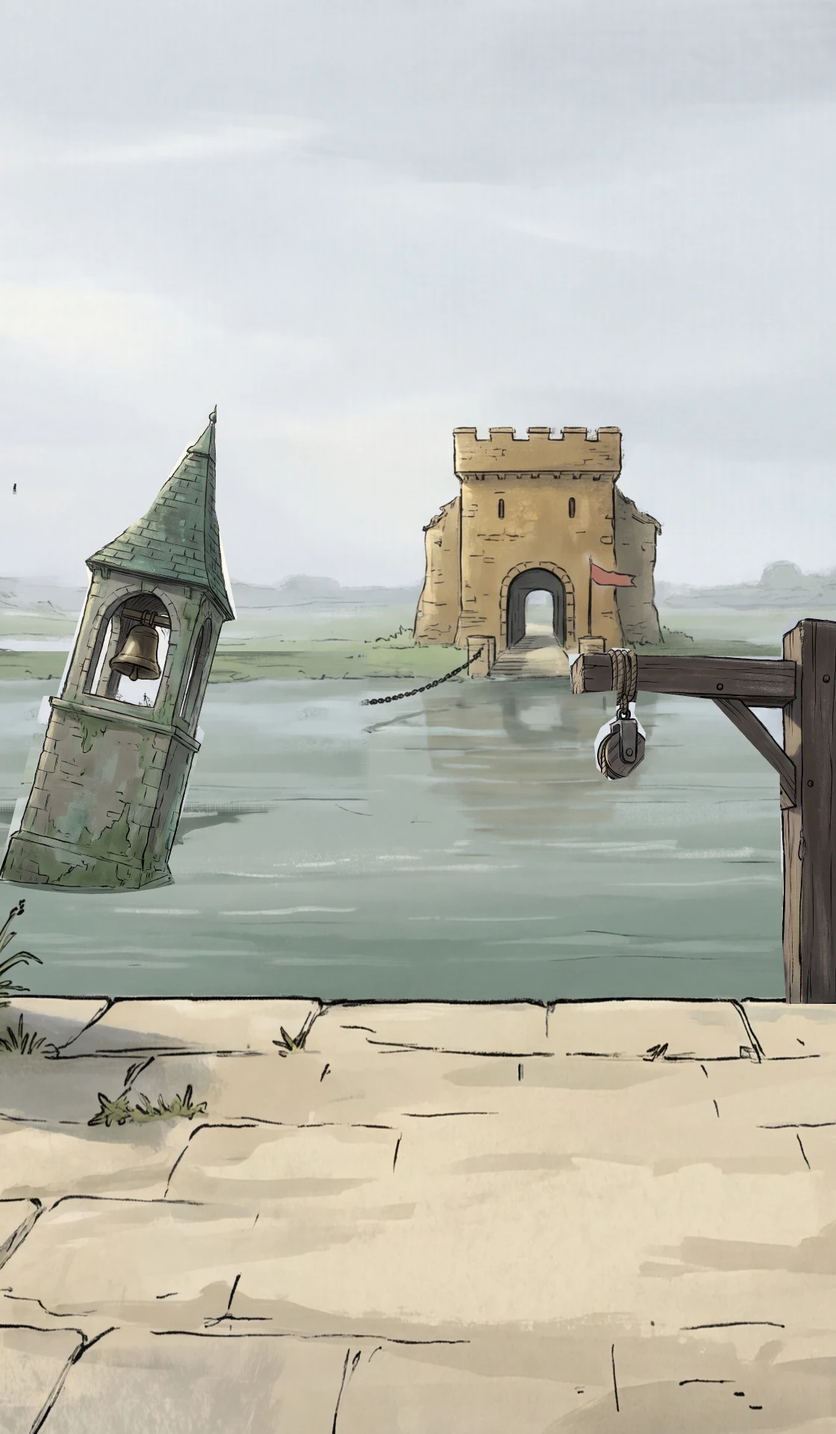
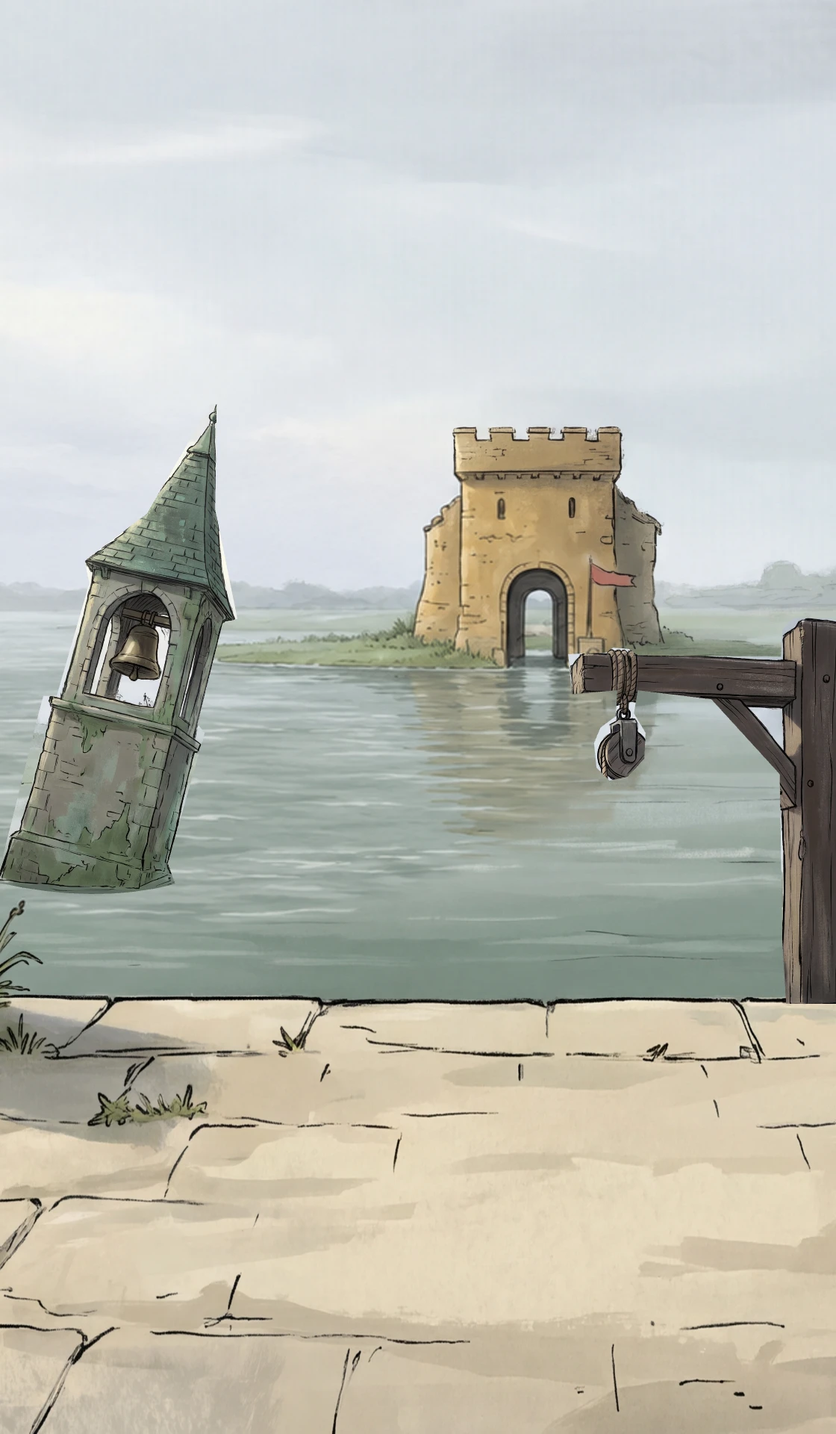
Restore the ford water, animate its ferry and add playable hub movement

diff --git a/index.html b/index.html
@@ -1,3 +1,3 @@
 <!doctype html><html lang="ru"><head><meta charset="utf-8"><meta name="viewport" content="width=device-width,initial-scale=1,viewport-fit=cover"><meta name="theme-color" content="#101c22"><title>Пепельный предел · Переправа</title><link rel="icon" type="image/webp" href="knight-portrait.webp"><link rel="stylesheet" href="arena.css">
 <script>if(location.hash.includes("tgWebApp")){const s=document.createElement("script");s.src="https://telegram.org/js/telegram-web-app.js?65";s.onload=()=>{Telegram.WebApp.ready();Telegram.WebApp.expand();if(Telegram.WebApp.isVersionAtLeast("7.7"))Telegram.WebApp.disableVerticalSwipes();window.dispatchEvent(new Event("telegram-ready"))};document.head.append(s)}</script></head>
-<body><main><header><div class="sigil">♜</div><strong>Пепельный предел</strong><span id="gold"></span><button id="wide" title="На весь экран" aria-label="На весь экран">⛶</button><button id="settings" aria-haspopup="dialog" aria-controls="layoutDialog">⚙ Настройки</button></header><section id="field"><canvas aria-label="Игровая сцена" id="view"></canvas><div class="hud"><small id="area"></small><h1 id="title"></h1><span id="vitals"></span></div><div id="objective" hidden><img id="goalIcon" alt=""><div><strong id="goalName"></strong><span id="goalCount"></span><progress id="goalBar" aria-label="Выполнение задания"></progress></div></div><button id="portrait" aria-label="Осмотреть рыцаря"></button><button id="keep">Замок</button><button id="smith" hidden>Кузнец</button><button id="stairs" hidden>Казематы</button><button id="returnCamp" hidden>К лодке</button><canvas id="locationCard" role="status" aria-label="Название локации" hidden></canvas><button id="portal">Портал ↗</button><button id="pause" hidden aria-label="Приостановить бой">Ⅱ</button><div id="belt" hidden><button id="battleBag" aria-label="Открыть походную сумку">▤<span>Сумка</span></button><div id="flasks"><button id="healFlask" aria-label="Выпить фласку здоровья"><i></i><span></span></button><button id="manaFlask" aria-label="Выпить фласку маны"><i></i><span></span></button></div></div><button id="dash" aria-label="Рывок (пробел)" hidden>➤ Рывок</button><div id="stick" hidden aria-label="Джойстик движения"><i></i></div><div id="flash" role="status"></div></section><footer><button id="character"><img class="knight-icon" src="knight-portrait.webp" alt="">Рыцарь</button><button id="inventory">▤　Сумка</button><button id="venture">⚔　В поход</button></footer><p id="hint"></p><p id="saveError" role="status"></p></main><dialog id="sheet"><button id="close" aria-label="Закрыть">×</button><div id="inside"></div></dialog><dialog id="layoutDialog" aria-labelledby="layoutTitle"><form method="dialog"><small>Настройки управления</small><h2 id="layoutTitle">Где удобнее джойстик?</h2><p>Выбери положение для большого пальца. Раскладку можно поменять кнопкой «Настройки».</p><fieldset><legend>Положение джойстика</legend><label class="layoutChoice"><input type="radio" name="layout" value="left"><span class="scheme left" aria-hidden="true"><i></i><b></b><em></em></span><strong>Слева</strong></label><label class="layoutChoice"><input type="radio" name="layout" value="center"><span class="scheme center" aria-hidden="true"><i></i><b></b><em></em></span><strong>По центру</strong></label><label class="layoutChoice"><input type="radio" name="layout" value="right"><span class="scheme right" aria-hidden="true"><i></i><b></b><em></em></span><strong>Справа</strong></label></fieldset><a id="externalGame" target="_blank" rel="noopener noreferrer">Открыть в браузере ↗</a><button class="primary" type="submit">Готово</button></form></dialog><script src="display.js"></script><script src="art.js"></script><script src="knight.js"></script><script src="refuge.js"></script><script src="missions.js"></script><script src="equipment.js"></script><script src="ward.js"></script><script src="sigils.js"></script><script src="journey.js"></script><script src="campaign.js"></script><script src="arena.js"></script></body></html>
+<body><main><header><div class="sigil">♜</div><strong>Пепельный предел</strong><span id="gold"></span><button id="wide" title="На весь экран" aria-label="На весь экран">⛶</button><button id="settings" aria-haspopup="dialog" aria-controls="layoutDialog">⚙ Настройки</button></header><section id="field"><canvas aria-label="Игровая сцена" id="view"></canvas><div class="hud"><small id="area"></small><h1 id="title"></h1><span id="vitals"></span></div><div id="objective" hidden><img id="goalIcon" alt=""><div><strong id="goalName"></strong><span id="goalCount"></span><progress id="goalBar" aria-label="Выполнение задания"></progress></div></div><button id="portrait" aria-label="Осмотреть рыцаря"></button><button id="groundUse" hidden>Действие</button><button id="keep">Замок</button><button id="smith" hidden>Кузнец</button><button id="stairs" hidden>Казематы</button><button id="returnCamp" hidden>К лодке</button><canvas id="locationCard" role="status" aria-label="Название локации" hidden></canvas><button id="portal">Портал ↗</button><button id="pause" hidden aria-label="Приостановить бой">Ⅱ</button><div id="belt" hidden><button id="battleBag" aria-label="Открыть походную сумку">▤<span>Сумка</span></button><div id="flasks"><button id="healFlask" aria-label="Выпить фласку здоровья"><i></i><span></span></button><button id="manaFlask" aria-label="Выпить фласку маны"><i></i><span></span></button></div></div><button id="dash" aria-label="Рывок (пробел)" hidden>➤ Рывок</button><div id="stick" hidden aria-label="Джойстик движения"><i></i></div><div id="flash" role="status"></div></section><footer><button id="character"><img class="knight-icon" src="knight-portrait.webp" alt="">Рыцарь</button><button id="inventory">▤　Сумка</button><button id="venture">⚔　В поход</button></footer><p id="hint"></p><p id="saveError" role="status"></p></main><dialog id="sheet"><button id="close" aria-label="Закрыть">×</button><div id="inside"></div></dialog><dialog id="layoutDialog" aria-labelledby="layoutTitle"><form method="dialog"><small>Настройки управления</small><h2 id="layoutTitle">Где удобнее джойстик?</h2><p>Выбери положение для большого пальца. Раскладку можно поменять кнопкой «Настройки».</p><fieldset><legend>Положение джойстика</legend><label class="layoutChoice"><input type="radio" name="layout" value="left"><span class="scheme left" aria-hidden="true"><i></i><b></b><em></em></span><strong>Слева</strong></label><label class="layoutChoice"><input type="radio" name="layout" value="center"><span class="scheme center" aria-hidden="true"><i></i><b></b><em></em></span><strong>По центру</strong></label><label class="layoutChoice"><input type="radio" name="layout" value="right"><span class="scheme right" aria-hidden="true"><i></i><b></b><em></em></span><strong>Справа</strong></label></fieldset><a id="externalGame" target="_blank" rel="noopener noreferrer">Открыть в браузере ↗</a><button class="primary" type="submit">Готово</button></form></dialog><script src="display.js"></script><script src="art.js"></script><script src="knight.js"></script><script src="refuge.js"></script><script src="missions.js"></script><script src="equipment.js"></script><script src="ward.js"></script><script src="sigils.js"></script><script src="journey.js"></script><script src="campaign.js"></script><script src="explore.js"></script><script src="arena.js"></script></body></html>

diff --git a/journey.js b/journey.js
@@ -1,48 +1,70 @@
 "use strict";
 const journeyPhase=(p,start,end)=>Math.max(0,Math.min(1,(p-start)/(end-start)));
 const between=(a,b,p)=>a+(b-a)*p;
-const hullArt=new Image();hullArt.src="ferry-hull.webp";
-function drawSkiff(x,y,s,t,rowing,rider){
- const stroke=rowing?Math.sin(t*5):0;
- ctx.save();ctx.translate(x,y+Math.sin(t*2)*s*.6);ctx.scale(s,s);
- for(let i=0;i<3;i++){
-   const u=(t*.45+i/3)%1;
-   ctx.strokeStyle="rgba(218,229,215,"+((1-u)*(rowing?.6:.2))+")";ctx.lineWidth=.8;
-   ctx.beginPath();ctx.ellipse(-5,4,24+u*14,3+u*4,.05,0,Math.PI*1.8);ctx.stroke()
+const hullArt=new Image();hullArt.src="ferry-rowboat.webp";
+function waterArc(x,y,rx,ry,alpha){
+ ctx.strokeStyle="rgba(232,240,217,"+alpha+")";ctx.lineWidth=.72;
+ ctx.beginPath();ctx.ellipse(x,y,rx,ry,-.10,.12,Math.PI*1.72);ctx.stroke()
+}
+function ferryOar(side,phase,active){
+ const reach=active?Math.cos(phase):.72, lift=active?Math.max(0,Math.sin(phase))*4:1;
+ const pivotX=side>0?-5:1,pivotY=side>0?-2:-12;
+ const dx=-8+reach*16,dy=side*15-lift;
+ const x=pivotX+dx,y=pivotY+dy;
+ line("#483c30",2.1,pivotX-dx*.45,pivotY-dy*.45,x,y);
+ line("#c0a77b",1,pivotX-dx*.45,pivotY-dy*.45,x,y);
+ ctx.save();ctx.translate(x,y);ctx.rotate(Math.atan2(dy,dx));
+ poly("#63513c",-2,-.7,2,-2,9,-1.8,11,.3,8,1.7,1,1.5);line("#c3a67b",.7,1,0,9,0);ctx.restore();
+ if(active&&Math.sin(phase)<-.1)waterArc(x+dx*.16,y+dy*.16,4+3*-Math.sin(phase),1.7,.65);
+ return {x:pivotX-dx*.45,y:pivotY-dy*.45}
+}
+function drawSkiff(x,y,s,t,rowing,rider,reverse=false,moored=false){
+ const wave=reducedMotion.matches?0:Math.sin(t*2.45),phase=t*4.7;
+ ctx.save();ctx.translate(x,y);ctx.scale(s,s);
+ if(reverse)ctx.scale(-1,1);
+ oval("#4b615933",0,4,40,4);
+ if(rowing)for(let i=0;i<4;i++){
+   const u=(t*.55+i/4)%1;
+   waterArc(-30-u*48,6+u*11,9+u*18,2+u*4,.58*(1-u))
  }
- if(hullArt.naturalWidth)ctx.drawImage(hullArt,-40,-16,80,22);
- if(rider)knightAt(0,-4,.60,weapon(),t,false,false,armor().bonus,0,1);
- if(hullArt.naturalWidth){
-  ctx.save();ctx.beginPath();ctx.moveTo(-40,1);ctx.lineTo(40,-6);ctx.lineTo(40,7);ctx.lineTo(-40,7);ctx.closePath();ctx.clip();
-  ctx.drawImage(hullArt,-40,-16,80,22);ctx.restore()
+ ctx.translate(0,wave*.65+(rider?1.4:0));ctx.rotate(wave*(rowing?.015:.008));
+ if(rowing)ferryOar(-1,phase,true);
+ if(hullArt.naturalWidth)ctx.drawImage(hullArt,-48,-27,96,38);
+ if(rider){
+   ctx.save();ctx.translate(-6,-2);ctx.rotate(Math.sin(phase)*.07);
+   knightAt(0,0,.56,weapon(),t,false,false,armor().bonus,0,1);ctx.restore();
+   ctx.save();ctx.beginPath();ctx.moveTo(-48,1);ctx.quadraticCurveTo(8,4,48,-25);ctx.lineTo(48,14);ctx.lineTo(-48,14);ctx.clip();
+   if(hullArt.naturalWidth)ctx.drawImage(hullArt,-48,-27,96,38);ctx.restore();
+   const grip=ferryOar(1,phase,true);
+   line("#666c69",2.8,-7,-16,grip.x,grip.y);oval("#997f66",grip.x,grip.y,1.5,1.2)
  }
- const blade=rowing?stroke*15:-13;
- const grip=rowing?4+stroke*3:9;
- line("#ccb58b",1.8,grip,-14,blade-10,4);
- if(rider){line("#69727a",2.5,-3,-19,grip,-14);oval("#9a8770",grip,-14,1.6,1.2)}
- poly("#87725a",blade-10,2,blade-17,5,blade-20,9,blade-17,10,blade-9,5);
+ if(moored){
+   ctx.beginPath();ctx.moveTo(33,-15);ctx.quadraticCurveTo(39,3-wave,49,14-wave);ctx.strokeStyle="#665542";ctx.lineWidth=1.3;ctx.stroke();
+   rect("#695e4b",47,10-wave,4,7);oval("#a99a7e",49,10-wave,2.4,.95)
+ }
  ctx.restore()
 }
 function mooring(w,h){
  const portrait=w/h<.87;
  const dh=Math.max(h,w/(portrait?1120/1920:5504/3072));
- return {x:w*.34,y:h*.5+((portrait?.69:.76)-.5)*dh}
+ return {x:w*.34,y:h*.5+((portrait?.674:.745)-.5)*dh}
 }
-function boatPass(t,hero,p){
+function boatPass(t,hero,p,reverse=false){
  const w=width,h=height,s=Math.min(w/190,h/270),gate=gatePosition(w,h);
  const dock=mooring(w,h);
  const far={x:w*gate.x-4*s,y:h*gate.y+8*s};
  const sail=journeyPhase(p,.34,.82),ease=sail*sail*(3-2*sail);
- const bx=between(dock.x,far.x,ease),by=between(dock.y,far.y,ease);
+ const bx=between(dock.x,far.x,ease)-Math.sin(Math.PI*ease)*w*.045,by=between(dock.y,far.y,ease);
  const bs=s*between(.82,.21,ease);
  const aboard=p>=.34&&p<=.82;
- drawSkiff(bx,by,bs,t,aboard,aboard);
+ drawSkiff(bx,by,bs,t,aboard,aboard,reverse,p<.24);
  if(aboard)return;
  let x,y,size,seat;
  if(p<.34){
    const step=journeyPhase(p,.09,.34),jump=journeyPhase(p,.24,.34);
-   x=between(w*.53,dock.x,step);y=between(h*.91,dock.y-3*bs,step)-Math.sin(Math.PI*jump)*10*s;
-   size=s*between(1,.82*.63,step);seat=1-journeyPhase(p,0,.09)+jump
+   const origin=travel?.to==="castle"?travel.origin:null;
+   x=between(w*(origin?.x??.53),dock.x,step);y=between(h*(origin?.y??.91),dock.y-3*bs,step)-Math.sin(Math.PI*jump)*10*s;
+   size=s*between(1,.82*.63,step);seat=(origin?0:1-journeyPhase(p,0,.09))+jump
  }else{
    const step=journeyPhase(p,.82,1);
    x=between(far.x,w*gate.x,step);y=between(far.y,h*gate.y,step)-Math.sin(Math.PI*step)*s;
@@ -55,6 +77,8 @@ function courtyardCamp(t,p,throughPortal=false,smithStep=0,stairs=false){
  const w=width,h=height,s=Math.min(w/205,h/275);
  arrivalArt(t);
  const fx=w*.47-27*s,fy=h*.82;
+ const behind=!travel&&walker&&walker.y<.835;
+ if(behind)drawWalker(t,s);
  const lit=journeyPhase(p,.66,.88);
  oval("#3b2b27",fx,fy,14*s,4*s);
  for(let i=0;i<3;i++)line("#5f422f",2*s,fx-(9-i)*s,fy-i*s,fx+(8-i)*s,fy+s);
@@ -70,19 +94,21 @@ function courtyardCamp(t,p,throughPortal=false,smithStep=0,stairs=false){
  const startY=throughPortal ? .88 : tall && !stairs ? .65 : .70;
  if(hero.level>=10)ferryThreshold(w*.86,h*.88,s*.52,t,throughPortal?1-p:0);
  const kindle=Math.sin(Math.PI*journeyPhase(p,.54,.84));
- const x=between(between(startX,.5,walk),.35,smithStep),y=between(between(startY,.85,walk),tall?.705:.80,smithStep);
+ if(behind||(!travel&&drawWalker(t,s)))return;
+ const origin=hero.base==="castle"&&travel?.to!=="homePortal"?travel?.origin:null;
+ const x=between(between(startX,origin?.x??.5,walk),.35,smithStep),y=between(between(startY,origin?.y??.85,walk),tall?.705:.80,smithStep);
  knightAt(w*x-kindle*s*6,h*y,s*between(.30,1,walk)*(1-.18*smithStep),weapon(),t,walk<1||(smithStep>0&&smithStep<1),false,armor().bonus,0,(settle+kindle*.59)*(1-Math.min(1,smithStep*4)))
 }
 function journeyScene(t,path){
  const p=path.p;
  if(path.to==="castle"||path.to==="camp"){
    const forward=path.to==="castle"?p:1-p;
-   if(forward<.72)refugeArt(t,hero,{boat:forward/.72},false);
+   if(forward<.72)refugeArt(t,hero,{boat:forward/.72,reverse:path.to==="camp"},false);
    else courtyardCamp(t,(forward-.72)/.28);
    return
  }
  if(path.to==="smith"||path.to==="smithBack"){courtyardCamp(t,1,false,path.to==="smith"?p:1-p);return}
- if(path.to==="storyHome"){refugeArt(t,hero,{boat:1-p,relight:true},false);return}
+ if(path.to==="storyHome"){refugeArt(t,hero,{boat:1-p,relight:true,reverse:true},false);return}
  if(path.to==="stairs"){
    if(path.fromSmith&&p<.36)courtyardCamp(t,1,false,1-p/.36);
    else courtyardCamp(t,1-(path.fromSmith?(p-.36)/.64:p),false,0,true);

diff --git a/explore.js b/explore.js
@@ -1,0 +1,100 @@
+"use strict";
+let walker=null,groundGoal=null,nearAction=null,bellTime=-20,bellAudio;
+function inYard(){return hero.base==="castle"}
+function homePose(){return inYard()?{x:.5,y:.85}:{x:.53,y:.91}}
+function canExplore(){return !combat&&!travel&&!hero.expedition&&!layoutDialog.open&&!dialog.open}
+function floorEdge(x){
+ if(inYard())return (width/height<.95?.693:.783)+.035*Math.abs(x-.52);
+ const d=mooring(width,height);
+ return Math.min(.93,d.y/height+.019+Math.max(0,.3-x)*.29)
+}
+function moveOnGround(dt){
+ if(!canExplore())return;
+ const pos=walker||(inYard()&&atAnvil?{x:.35,y:width/height<.95?.705:.80}:homePose());
+ let dx=stick.x+Number(keys.has("KeyD")||keys.has("ArrowRight"))-Number(keys.has("KeyA")||keys.has("ArrowLeft"));
+ let dy=stick.y+Number(keys.has("KeyS")||keys.has("ArrowDown"))-Number(keys.has("KeyW")||keys.has("ArrowUp"));
+ if(dx||dy)groundGoal=null;
+ if(groundGoal){
+   dx=(groundGoal.x-pos.x)*width;dy=(groundGoal.y-pos.y)*height;
+   const d=Math.hypot(dx,dy);if(d<6){groundGoal=null;dx=dy=0}else{dx/=d;dy/=d}
+ }
+ const mag=Math.hypot(dx,dy);
+ if(!walker&&mag<.08)return;
+ if(!walker){$("field").classList.add("exploring");atAnvil=false;walker={...pos,vx:0,vy:0,face:1,step:0,rise:0}};
+ const a=walker,speed=Math.min(width*.57,height*.51,450),acc=1-Math.exp(-dt*(mag?12:18));
+ a.rise=Math.min(1,a.rise+dt*4);
+ a.vx+=(dx/Math.max(1,mag)*speed-a.vx)*acc;a.vy+=(dy/Math.max(1,mag)*speed*.75-a.vy)*acc;
+ const nx=clamp(a.x+a.vx*dt/width,.05,.95),ny=clamp(a.y+a.vy*dt/height,floorEdge(nx),.98);
+ const stride=Math.hypot((nx-a.x)*width,(ny-a.y)*height);
+ a.walk=stride>dt*9;a.step+=stride/Math.max(.6,Math.min(width/230,height/300))*.135;
+ if(a.walk){const target=clamp(-a.vy/(Math.hypot(a.vx,a.vy)||1),-1,1);a.turn=(a.turn||0)+(target-(a.turn||0))*acc}
+ if(Math.abs(a.vx)>8)a.face=Math.sign(a.vx);
+ a.x=nx;a.y=ny;
+ const dock=mooring(width,height),fire=homePose();
+ const spots=inYard()?[[.32,width/height<.95?.72:.80,"Кузнец","smith"],[.77,width/height<.95?.70:.80,"Лестница","stairs"],[.51,floorEdge(.51),"К лодке","returnCamp"]]:[[dock.x/width,floorEdge(.34),"В лодку","keep"]];
+ spots.push([fire.x,fire.y,"Сесть у огня","rest"]);
+ if(hero.level>=10)spots.push([inYard()?.86:.79,inYard()?.88:floorEdge(.79),"Разлом","portal"]);
+ nearAction=spots.filter(v=>v[3]!=="stairs"||hero.metSmith&&hero.chapter<3)
+ .map(v=>({v,d:Math.hypot((v[0]-a.x)*width,(v[1]-a.y)*height)})).sort((l,r)=>l.d-r.d)[0];
+ if(!nearAction||nearAction.d>Math.max(32,speed*.21))nearAction=null;
+ const btn=$("groundUse");btn.hidden=!nearAction;if(nearAction)btn.textContent=nearAction.v[2]
+}
+function useGround(){
+ if(!canExplore()||!nearAction)return;
+ const id=nearAction.v[3];
+ if(id==="rest"){resetGround();return}
+ $(id).click()
+}
+function resetGround(){$("field").classList.remove("exploring");walker=null;nearAction=null;groundGoal=null;$("groundUse").hidden=true}
+function drawWalker(t,s){
+ if(!walker)return false;
+ const a=walker,size=s*(.85+(a.y-.75)*.9);
+ ctx.save();ctx.translate(a.x*width,a.y*height);ctx.scale(a.face,1);
+ knightAt(0,0,size,weapon(),a.walk?a.step/11:t,a.walk,false,armor().bonus,0,1-a.rise,(a.turn||0)*-1.65);
+ ctx.restore();
+ if(groundGoal){ctx.strokeStyle="#eeddb78c";ctx.lineWidth=1.4;ctx.beginPath();ctx.ellipse(groundGoal.x*width,groundGoal.y*height,7,2.8,0,0,7);ctx.stroke()}
+ return true
+}
+function bellPoint(){
+ const tall=width/height<.87,ratio=tall?1120/1920:5504/3072;
+ const dw=Math.max(width,height*ratio),dh=dw/ratio;
+ return {x:width*.5+((tall?.16:.145)-.5)*dw,y:height*.5+((tall?.455:.335)-.5)*dh}
+}
+function ringFordBell(){
+ const t=performance.now()/1000;if(t-bellTime<1)return;bellTime=t;
+ try{
+   bellAudio??=new AudioContext();bellAudio.resume().catch(()=>{});
+   for(const [hz,level] of [[293,.085],[588,.04],[817,.027],[1253,.014]]){
+     const osc=bellAudio.createOscillator(),gain=bellAudio.createGain(),now=bellAudio.currentTime;
+     osc.frequency.value=hz;gain.gain.setValueAtTime(.001,now);gain.gain.exponentialRampToValueAtTime(level,now+.014);
+     gain.gain.exponentialRampToValueAtTime(.0001,now+2.6);osc.connect(gain);gain.connect(bellAudio.destination);osc.start();osc.stop(now+2.7)
+   }
+ }catch{}
+}
+function fordBirds(t){
+ const age=t-bellTime;if(age<0||age>5||reducedMotion.matches)return;
+ const bell=bellPoint();
+ for(let i=0;i<5;i++){const f=Math.max(0,age-i*.11),x=bell.x+f*(42+i*6)+i*3,y=bell.y-Math.sin(Math.min(1,f/3)*1.55)*(28+i*7)-f*6,wing=Math.sin(t*12+i)*3;
+ line("#48564d",1.3,x-4,y+wing,x,y);line("#48564d",1.3,x,y,x+4,y+wing)}
+}
+let groundTouch=null,dragEnded=0;
+stage.addEventListener("pointerdown",e=>{
+ if(e.pointerType==="mouse"||!canExplore())return;
+ const box=stage.getBoundingClientRect(),x=(e.clientX-box.left)/width,y=(e.clientY-box.top)/height;
+ if(y<floorEdge(x)-.025||groundTouch)return;
+ groundTouch={id:e.pointerId,x:e.clientX,y:e.clientY,drag:false};stage.setPointerCapture(e.pointerId)
+});
+stage.addEventListener("pointermove",e=>{
+ if(!groundTouch||e.pointerId!==groundTouch.id)return;
+ const dx=e.clientX-groundTouch.x,dy=e.clientY-groundTouch.y,d=Math.hypot(dx,dy);
+ if(!groundTouch.drag&&d<9)return;
+ groundTouch.drag=true;stick={x:dx/Math.max(34,d),y:dy/Math.max(34,d)}
+});
+function releaseGroundTouch(e){
+ if(!groundTouch||e.pointerId!==groundTouch.id)return;
+ if(groundTouch.drag)dragEnded=performance.now();
+ groundTouch=null;stick={x:0,y:0}
+}
+stage.addEventListener("pointerup",releaseGroundTouch);
+stage.addEventListener("pointercancel",releaseGroundTouch);
+stage.addEventListener("lostpointercapture",releaseGroundTouch);

diff --git a/arena.js b/arena.js
@@ -30,7 +30,7 @@ function enterTitle(label,name){
 }
 function depart(to,road){
  if(travel||combat)return;
- travel={to,road,p:0,fromSmith:atAnvil};atAnvil=false;clearInput();closeSheet();hud()
+ travel={to,road,p:0,fromSmith:atAnvil,origin:walker?{...walker}:null};resetGround();atAnvil=false;clearInput();closeSheet();hud()
 }
 function arrive(){
  const {to,road}=travel;travel=null;
@@ -76,6 +76,7 @@ function hud(){
  $("hint").textContent=r?"Движение: джойстик, WASD или стрелки. Удары и руна срабатывают сами.":"Коснись рыцаря, чтобы осмотреть его, или выбери дорогу.";
  if(combat&&r.tier===0)$("hint").textContent="Движение — джойстик или WASD. Рывок — кнопка или пробел. Для выбора дара пройди через знак.";
  if(!r)$("hint").textContent=!courtyard?"У переправы ждёт лодка. За воротами работает кузнец Радан.":!hero.metSmith?"Подойди к наковальне. Радан подготовит клинок к первому поручению.":chapters[hero.chapter]?"Глава "+(hero.chapter+1)+" · "+chapters[hero.chapter].title+" · Спуск под красным знаменем.":"Дорога свободна. Разломы открываются с 10-го уровня.";
+ if(!r&&!travel)$("hint").textContent+=" Бег — WASD или стрелки. На телефоне коснись земли или веди пальцем.";
  if(r?.mode==="story")$("area").textContent="Глава "+(r.tier+1)+" · "+chapters[r.tier].title+" · Зал "+r.room+"/"+r.total;
  if(r?.mode==="rift")$("area").textContent+=" · Глубина "+r.depth;
 }
@@ -413,14 +414,19 @@ function arenaArt(t){
  ctx.font="bold 11px Georgia";ctx.textAlign="center";for(const e of effects){ctx.fillStyle=e.color;ctx.fillText(String(e.n),e.x,e.y-23-(.55-e.life)*23)}ctx.restore()
 }
 stage.addEventListener("click",e=>{
- if(hero.expedition||travel||hero.base==="castle")return;
+ if(!canExplore()||performance.now()-dragEnded<200)return;
  const box=stage.getBoundingClientRect(),x=(e.clientX-box.left)/width,y=(e.clientY-box.top)/height;
  const dock=mooring(width,height);
- if(Math.abs(x-dock.x/width)<.09&&Math.abs(y-dock.y/height)<.035){depart("castle");return}
- if(hero.level>=10&&Math.abs(x-.80)<.085&&y>.67&&y<.78)$("portal").click();
+ if(!inYard()&&Math.abs(x-dock.x/width)<.09&&Math.abs(y-dock.y/height)<.035){depart("castle");return}
+ if(!inYard()&&hero.level>=10&&Math.abs(x-.80)<.085&&y>.67&&y<.78){$("portal").click();return}
+ const bell=bellPoint();
+ if(!inYard()&&Math.hypot(x*width-bell.x,y*height-bell.y)<Math.max(23,width*.034)){ringFordBell();return}
+ if(y>=floorEdge(x)-.025)groundGoal={x:clamp(x,.05,.95),y:clamp(y,floorEdge(x),.98)};
 });
+$("groundUse").onclick=useGround;
+addEventListener("keydown",e=>{if(e.code==="KeyE"&&!e.repeat)useGround()});
 const controls=["KeyW","KeyA","KeyS","KeyD","ArrowUp","ArrowDown","ArrowLeft","ArrowRight"];
-addEventListener("keydown",e=>{if(!combat||layoutDialog.open||(dialog.open&&screen!=="bag")||!controls.includes(e.code))return;e.preventDefault();keys.add(e.code)});
+addEventListener("keydown",e=>{if((!combat&&!canExplore())||layoutDialog.open||(dialog.open&&screen!=="bag")||!controls.includes(e.code))return;e.preventDefault();keys.add(e.code)});
 addEventListener("keydown",e=>{if(e.code==="Space"&&combat&&!dialog.open&&!layoutDialog.open){e.preventDefault();if(!e.repeat)dash()}});
 addEventListener("keyup",e=>keys.delete(e.code));
 const pad=$("stick");
@@ -435,6 +441,7 @@ addEventListener("blur",suspend);addEventListener("pagehide",persist);
 function frame(ms){
  const dt=Math.min(.05,(ms-prev)/1000);prev=ms;
  const active=!layoutDialog.open&&!dialog.open&&!document.hidden;
+ if(active&&!combat&&!travel)moveOnGround(dt);
  if(travel&&active){travel.p=Math.min(1,travel.p+dt/(reducedMotion.matches?.3:travel.to==="castle"||travel.to==="camp"||travel.to==="storyHome"?6.7:travel.to==="homePortal"?3.6:2.2));if(travel.p>=1)arrive()}
  if(arrival>0&&active){arrival=Math.max(0,arrival-dt);if(!arrival)$("locationCard").hidden=true}
  if(combat&&!arrival&&!layoutDialog.open&&(!dialog.open||screen==="bag")&&!document.hidden)update(dt);

diff --git a/knight.js b/knight.js
@@ -1,14 +1,15 @@
 "use strict";
 // Faceted armour sections are described by horizontal elliptical cross-sections.
 // Coordinates are in model space: the face and the shield point toward negative Y.
-function knightAt(x,y,size,weapon,time,walking=false,raised=false,armor=1,slash=0,seated=0){
- const faces=[],yaw=-.46-.62*seated,sy=Math.sin(yaw),cy=Math.cos(yaw);
+function knightAt(x,y,size,weapon,time,walking=false,raised=false,armor=1,slash=0,seated=0,turn=0){
+ const faces=[],yaw=-.46-.62*seated+turn,sy=Math.sin(yaw),cy=Math.cos(yaw);
  const shade=(rgb,n)=>"rgb("+rgb.map((v,i)=>Math.min(255,Math.round(v*(.63+.46*n)+(i===0?12+seated*36:i===1?4+seated*11:4)*Math.max(0,n)))).join(",")+")";
  const worn=kind=>hero.bag[hero.gear[kind]];
  const helm=worn("head")?.bonus>0, mantle=worn("cloak")?.bonus>0, gauntlets=worn("hands")?.bonus>0, boots=worn("feet")?.bonus>0;
  const plate=worn("armor")?.name;
  const iron=plate==="Обсидиановые латы"?[86,70,101]:plate==="Панцирь склепа"?[105,147,137]:armor>1?[145,159,172]:[121,137,161],edge=[186,196,208],dark=[55,64,87],ox=[79,81,98],red=[150,36,51],fold=[93,30,48],brass=[200,155,94],hide=[81,55,55];
- const project=([a,b,z])=>{b-=Math.max(0,z-22)*.16*seated;return [a*cy-b*sy,(a*sy+b*cy)*.19-z,a*sy+b*cy-z*.19]};
+ let legLift=0;
+ const project=([a,b,z])=>{z+=legLift*Math.max(0,1-z/34);if(walking)b-=Math.max(0,z-27)*.095;b-=Math.max(0,z-22)*.16*seated;return [a*cy-b*sy,(a*sy+b*cy)*.19-z,a*sy+b*cy-z*.19]};
  function face(points,color){
   const p=points.map(project),a=points[0],u=points[1].map((v,i)=>v-a[i]),v=points[2].map((n,i)=>n-a[i]);
   const nx=u[1]*v[2]-u[2]*v[1],ny=u[2]*v[0]-u[0]*v[2],nz=u[0]*v[1]-u[1]*v[0],d=Math.hypot(nx,ny,nz)||1;
@@ -23,7 +24,8 @@ function knightAt(x,y,size,weapon,time,walking=false,raised=false,armor=1,slash=
  const enamel=[56,146,139], copper=[190,127,73], ivory=[214,199,152];
  const stride=walking?Math.sin(time*11):0,hip=34-14*seated+Math.abs(stride)*1.5,torso=hip+2+Math.sin(time*2)*.35;
  for(const sign of [-1,1]){
-  const a=sign*5.6,footY=-(26+sign*4)*seated+stride*sign*11;
+  legLift=walking?Math.max(0,sign*Math.cos(time*11))*8:0;
+  const a=sign*5.6,footY=-(26+sign*4)*seated+stride*sign*16;
   shell(a,footY,[[.4,4,6,-2],[2.7,4.3,7,-2],[5,3.1,4]],dark);
   shell(a,footY,[[4,2.8,3],[8,3.3,3.4],[15,4.2,4,2],[18,3.6,3.8,2]],iron,8);
   shell(a,footY+2,[[15,3.7,3.7],[18,4.5,4.6],[20,3.2,3.4]],edge,8);
@@ -33,6 +35,7 @@ function knightAt(x,y,size,weapon,time,walking=false,raised=false,armor=1,slash=
   }
   shell(a,0,[[18,3.8,4,footY+2],[hip+1,4.8,5.1,0]],iron,8)
  }
+ legLift=0;
  // The split mantle has deep folds behind the shoulders.
  for(let i=0;i<7;i++){
   const u=i/7,v=(i+1)/7;
@@ -64,10 +67,10 @@ function knightAt(x,y,size,weapon,time,walking=false,raised=false,armor=1,slash=
   shell(a,0,[[torso+10,4.3,4.7],[torso+16,6.2,6.5],[torso+20,5.7,6],[torso+23,2.8,3]],iron);
   shell(a,0,[[torso+11,5.2,5.2],[torso+12.3,5.8,6.1]],brass);
   shell(a+sign*1.8,-1,[[torso,3.4,3.6,-2-seated*9],[torso+7,4,4.3],[torso+10,3.8,4]],dark,8);
-  shell(a+sign*2.4,-4-14*seated,[[torso-7,2.6,2.6],[torso-5,3.4,3.3],[torso-2,3,3.5]],dark,8);
-  shell(a+sign*2.1,-3-10*seated,[[torso-3,3.1,3.2],[torso+2,3.9,4],[torso+5,3.4,3.6]],gauntlets?copper:iron,8);
-  if(gauntlets)shell(a+sign*2.1,-3-10*seated,[[torso+2,4,4.1],[torso+6,4.8,4.6]],brass,8);
-  if(sign===1&&worn("ring"))shell(a+sign*2.4,-4-14*seated,[[torso-6.4,3.4,3.7],[torso-4.4,3.7,3.8]],enamel,8)
+  shell(a+sign*2.4,-4-14*seated-stride*sign*7,[[torso-7,2.6,2.6],[torso-5,3.4,3.3],[torso-2,3,3.5]],dark,8);
+  shell(a+sign*2.1,-3-10*seated-stride*sign*4,[[torso-3,3.1,3.2],[torso+2,3.9,4],[torso+5,3.4,3.6]],gauntlets?copper:iron,8);
+  if(gauntlets)shell(a+sign*2.1,-3-10*seated-stride*sign*4,[[torso+2,4,4.1],[torso+6,4.8,4.6]],brass,8);
+  if(sign===1&&worn("ring"))shell(a+sign*2.4,-4-14*seated-stride*sign*7,[[torso-6.4,3.4,3.7],[torso-4.4,3.7,3.8]],enamel,8)
  }
  // An asymmetric heraldic tabard with a split hem and a stitched pale chevron.
  const cloth=mantle?enamel:red;

diff --git a/refuge.js b/refuge.js
@@ -3,7 +3,7 @@ const campPlate=new Image(),campSeat=new Image(),campFire=new Image();
 campFire.src="camp-fire.webp";
 let plateFile="";
 function selectPlate(w,h){
- const file=w/h<.87?"ford-portrait.webp":w*Math.min(2,devicePixelRatio)>2520?"ford-4k.webp":"ford-wide.webp";
+ const file=w/h<.87?"ford-portrait.webp?v=water2":w*Math.min(2,devicePixelRatio)>2520?"ford-4k.webp?v=water2":"ford-wide.webp?v=water2";
  if(file!==plateFile){plateFile=file;campPlate.src=file}
 }
 campSeat.src="camp-log.webp";
@@ -93,10 +93,12 @@ function arrivalArt(t){
 }
 function refugeArt(t,hero,travel,raised){
  const w=width,h=height,s=Math.min(w/190,h/270);
- drawCampPlate(w,h,hero.level,t);
+ drawCampPlate(w,h,hero.level,t);fordBirds(t);
  const shade=.025+.065*(1-Math.cos(t*Math.PI/90))/2;
  rect("rgba(24,20,19,"+shade+")",0,0,w,h);
  if(hero.level>=10)ferryThreshold(w*.79,h*.765,Math.min(w/320,h/450),t,travel?.to==="portal"?travel.p:0);
+ const behind=!travel&&walker&&walker.y<.89;
+ if(behind)drawWalker(t,s);
  const kindle=travel?.relight?journeyPhase(1-travel.boat,.81,.96):1;
  ctx.save();ctx.globalAlpha=kindle;
  const fx=w*.53-36*s,fy=h*.889;glow(fx,fy-8,s*40,"#ffb45f80");
@@ -112,7 +114,7 @@ function refugeArt(t,hero,travel,raised){
  const p=returning?1-travel.p:travel?.p||0,walk=Math.min(1,Math.max(0,(p-.22)/.66)),ease=walk*walk*(3-2*walk);
  const portal=returning||travel?.to==="portal",tx=portal ? .79 : gatePosition(w,h).x,ty=portal?.765:gatePosition(w,h).y;
  const resting=Math.max(0,1-p/.22);
- if(resting>.35&&(travel?.boat??0)<.09){
+ if(!walker&&resting>.35&&(travel?.boat??0)<.09){
   ctx.save();ctx.translate(w*.53+48*s,h*.93);ctx.scale(s,s);
   oval("#11152577",0,1,17,3);line("#543b32",3,-12,0,-6,-26);line("#805d46",3,10,0,5,-26);line("#9a7350",3,-12,-23,11,-23);
   const restingWeapon=weapon();
@@ -120,9 +122,10 @@ function refugeArt(t,hero,travel,raised){
   else{sword(4,-35,3.30,false,restingWeapon.bonus>1,restingWeapon.name);poly("#b08b61",-18,-19,-10,-21,-3,-16,-6,-5,-13,-1,-18,-8);poly("#8e3449",-16,-17,-10,-19,-5,-15,-8,-6,-13,-3,-16,-9)}
   ctx.restore()
  }
- if(travel?.boat!==undefined){boatPass(t,hero,travel.boat);return}
+ if(travel?.boat!==undefined){boatPass(t,hero,travel.boat,travel.reverse);return}
  const dock=mooring(w,h);
- drawSkiff(dock.x,dock.y,s*.82,t,false,false);
+ drawSkiff(dock.x,dock.y,s*.82,t,false,false,false,true);
+ if(behind||(!travel&&drawWalker(t,s)))return;
  const x=w*(.53+(tx-.53)*ease),y=h*(.91+(ty-.91)*ease);
  const vanish=Math.max(0,(p-.85)/.15);
  ctx.save();ctx.globalAlpha=1-vanish;

diff --git a/arena.css b/arena.css
@@ -116,3 +116,6 @@ body.wide-mode #field{flex:1;min-height:0;max-height:none;height:auto}
 .forge-blade{display:flex;align-items:center;gap:14px}.forge-blade img{width:68px;height:68px}
 @media(min-width:850px){body:has(#field.courtyard) main,body.at-refuge main{width:96vw;max-width:2100px}body:has(#field.courtyard) #field,body.at-refuge #field{height:min(calc(100dvh - 155px),58vw);min-height:380px}body:has(#field.courtyard) footer button{max-width:none}body:has(#field.courtyard) footer{width:100%}}
 @media(max-width:680px){#smith{left:23%;top:69%}#stairs{top:68%}.courtyard #returnCamp{top:57%}}
+#groundUse{position:absolute;right:2%;bottom:2%;z-index:4;background:#24352fe8;color:#fff2cf;border-color:#a7aa85}
+
+.exploring #portrait{pointer-events:none}
